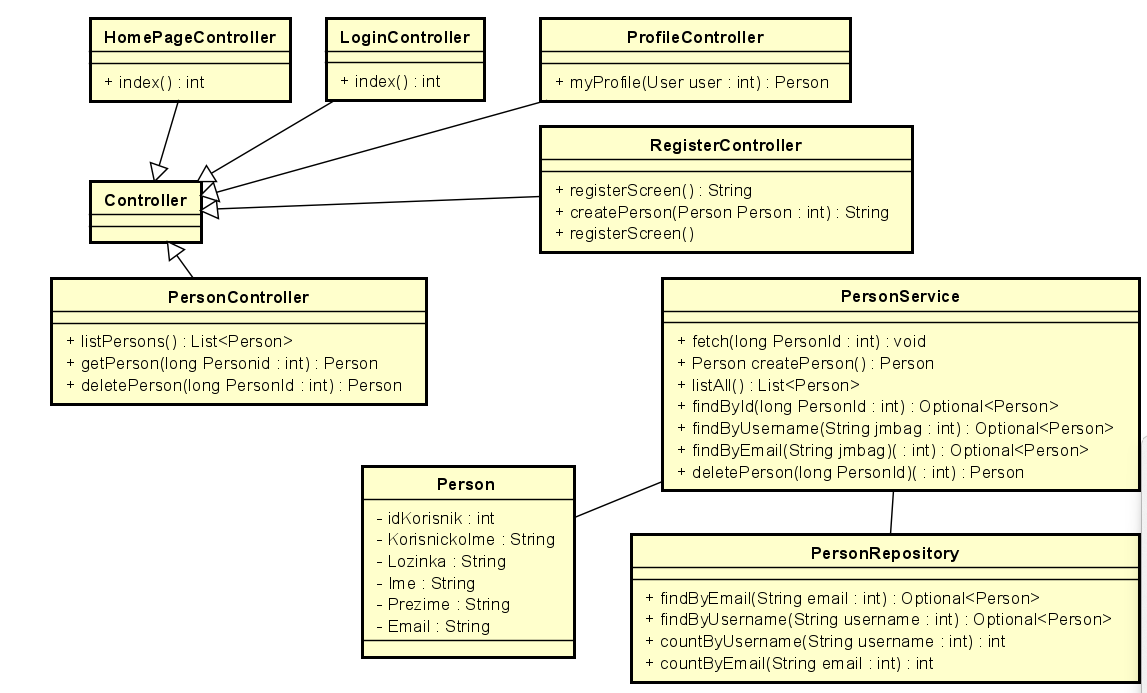
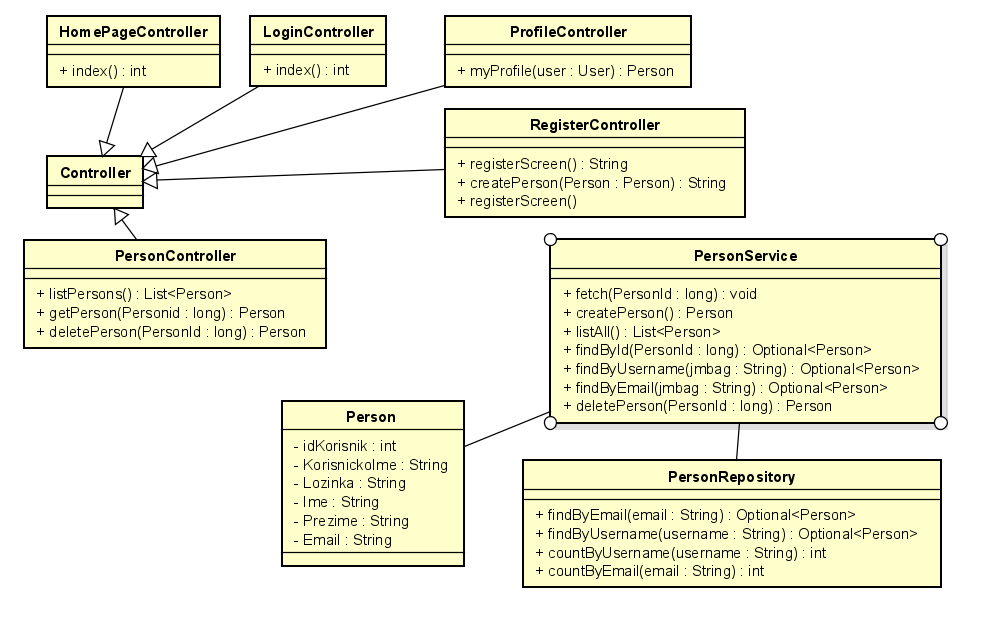
Ispravi netočne tipove podataka u dijagramu razreda `Controller`a
Closes #9

diff --git a/Dokumentacija/Arhitektura.tex b/Dokumentacija/Arhitektura.tex
@@ -220,7 +220,7 @@
 
 		Prvi dijagram prikazuje trenutno stanje stranice. Dijagram ima jedan repozitorij, entitet i servis te 5 kontrolera.
 		\begin{figure}[H]
-			\includegraphics[scale=0.65]{slike/dijagram_razreda2.png} %veličina slike u odnosu na originalnu datoteku i pozicija slike
+			\includegraphics[scale=0.75]{slike/dijagram_razreda2.png} %veličina slike u odnosu na originalnu datoteku i pozicija slike
 			\centering
 			\caption{dijagram s kontroler-ima}
 			\label{fig:Dijagram_razreda2}
